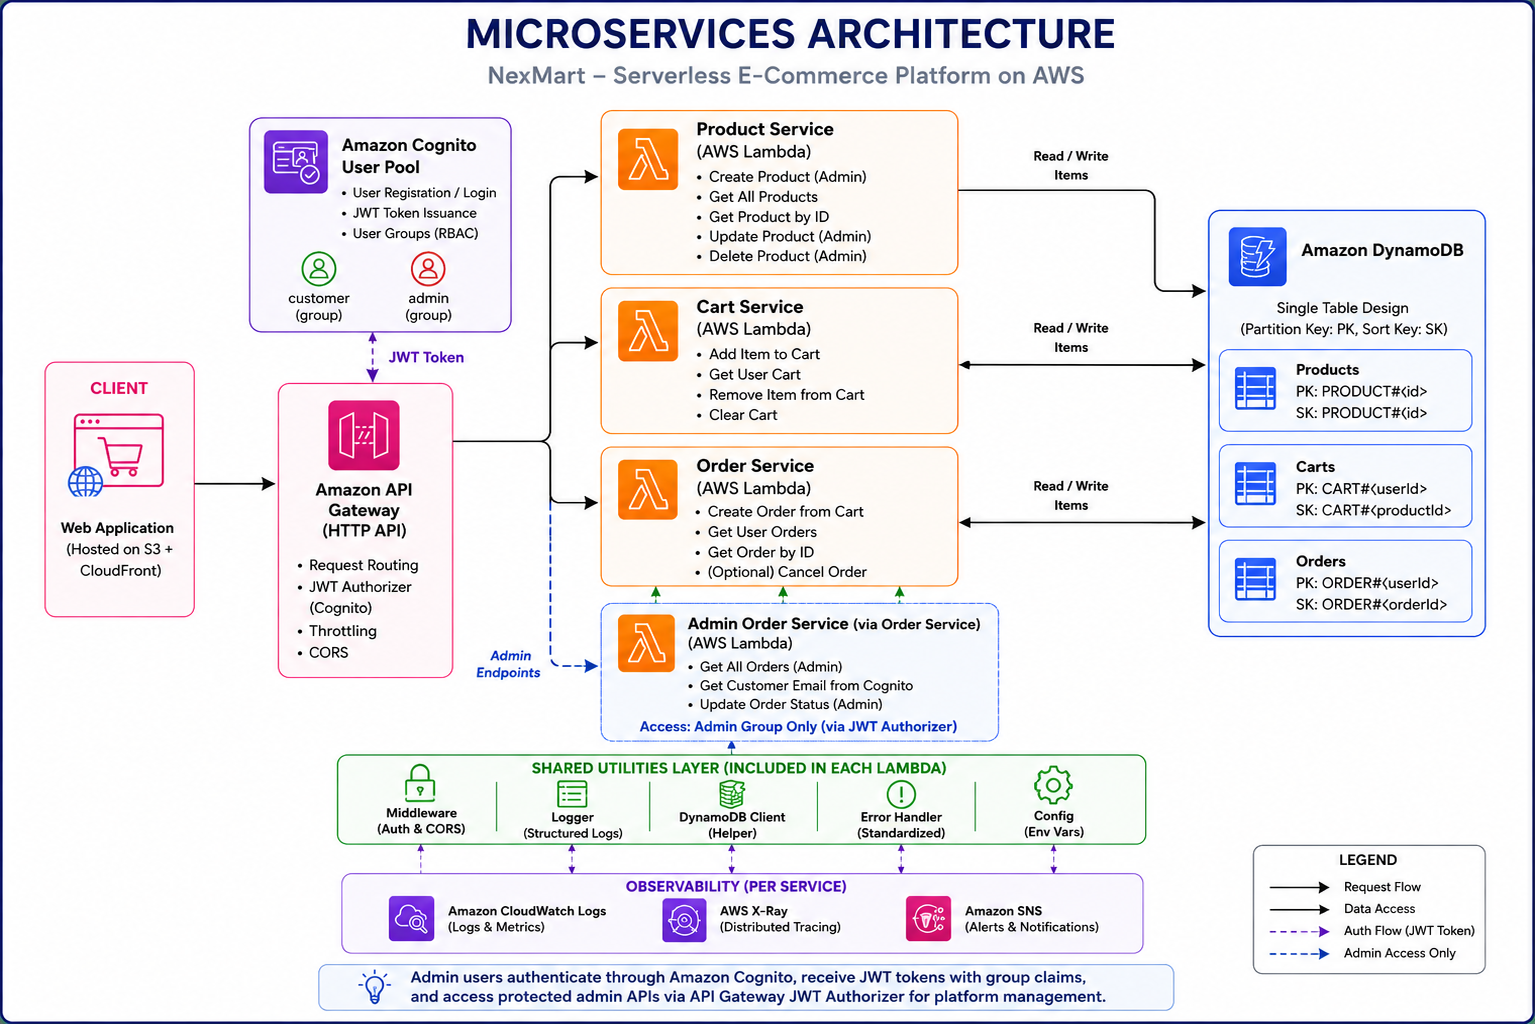
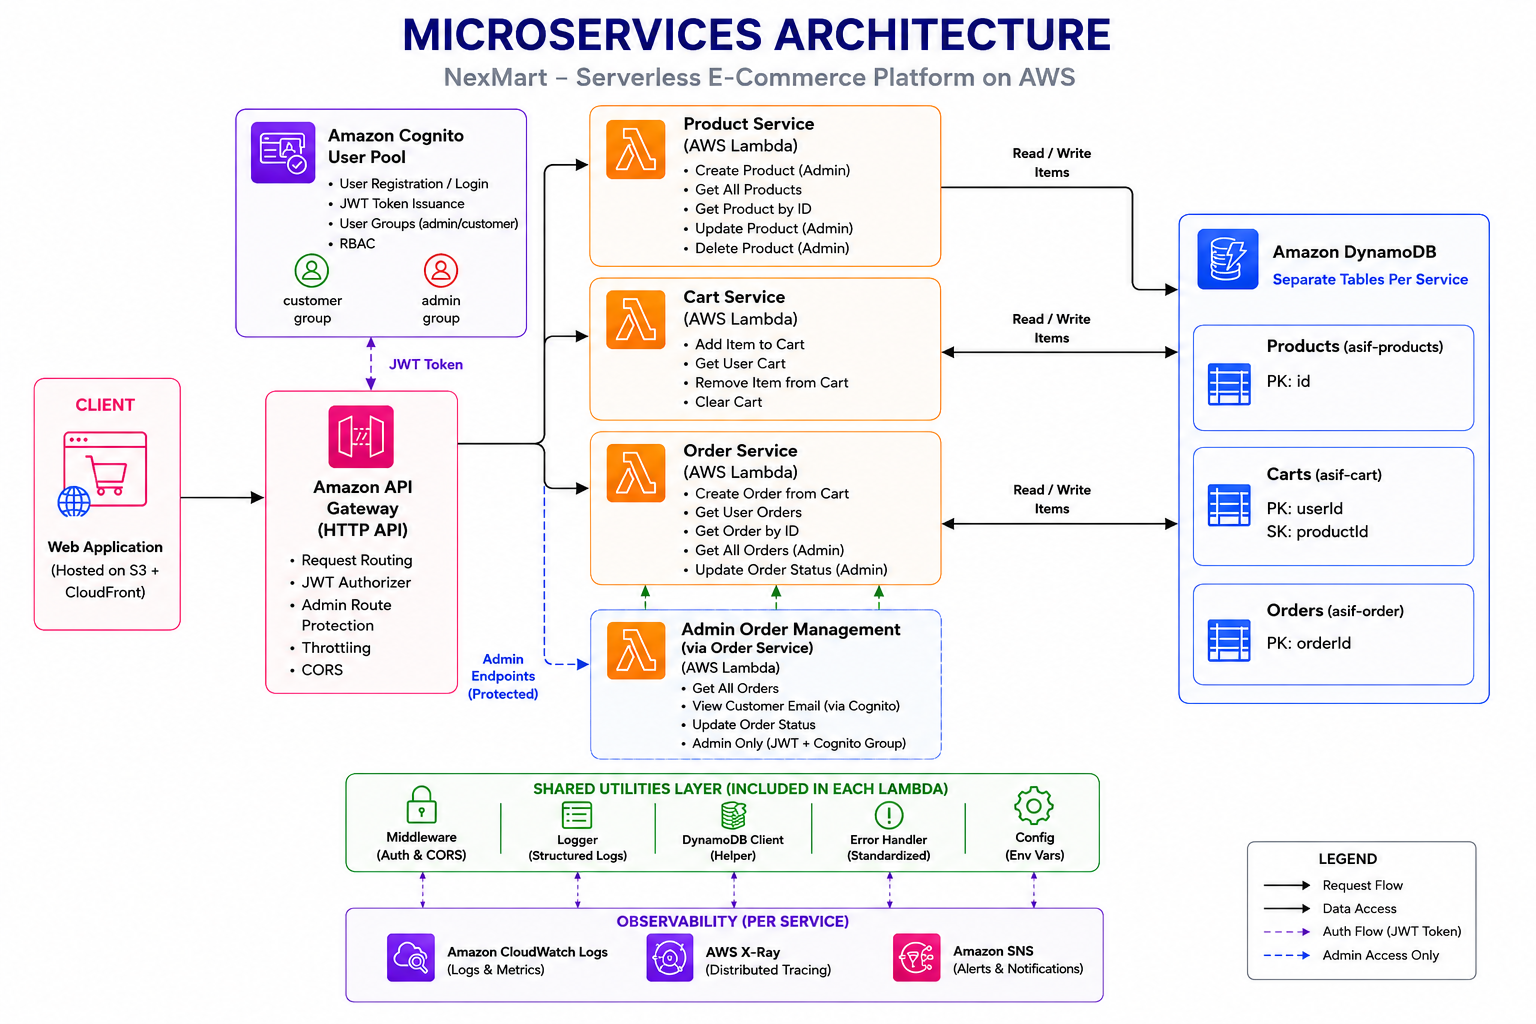
readme changes

diff --git a/README.md b/README.md
@@ -351,11 +351,17 @@ Supported Status Values:
 
 ## 🗄 DynamoDB Design
 
-DynamoDB is the primary data store for all three microservices. Each service owns its own table, and only the table primary key schemas are declared in Terraform.
+DynamoDB is the primary data store for NexMart.
+
+The application follows a database-per-service pattern where each microservice owns its own DynamoDB table.
 
 ### Design Philosophy
 
-The current Terraform configuration defines dedicated tables for products, carts, and orders using on-demand billing. Non-key attributes are stored by the application at runtime.
+- Separate DynamoDB table for each microservice
+- On-demand billing (PAY_PER_REQUEST)
+- Simple primary key design
+- No Global Secondary Indexes (GSI)
+- Non-key attributes are managed by the application
 
 ---
 
@@ -363,7 +369,7 @@ The current Terraform configuration defines dedicated tables for products, carts
 
 | Attribute | Type | Notes |
 |---|---|---|
-| `id` (PK) | Number | Primary partition key |
+| `id` (PK) | Number | Unique product identifier |
 
 ---
 
@@ -371,7 +377,7 @@ The current Terraform configuration defines dedicated tables for products, carts
 
 | Attribute | Type | Notes |
 |---|---|---|
-| `userId` (PK) | String | Cognito `sub` claim or application user identifier |
+| `userId` (PK) | String | Cognito user identifier (`sub`) |
 | `productId` (SK) | String | Product identifier |
 
 ---
@@ -380,11 +386,13 @@ The current Terraform configuration defines dedicated tables for products, carts
 
 | Attribute | Type | Notes |
 |---|---|---|
-| `orderId` (PK) | String | Primary partition key |
+| `orderId` (PK) | String | Unique order identifier |
 
 ---
 
-No Global Secondary Indexes are defined in `eccommerce-terraform/terraform/dynamodb.tf`.
+No Global Secondary Indexes (GSI) are currently defined in `eccommerce-terraform/terraform/dynamodb.tf`.
+
+---
 
 ## 📊 Observability & Monitoring
 
